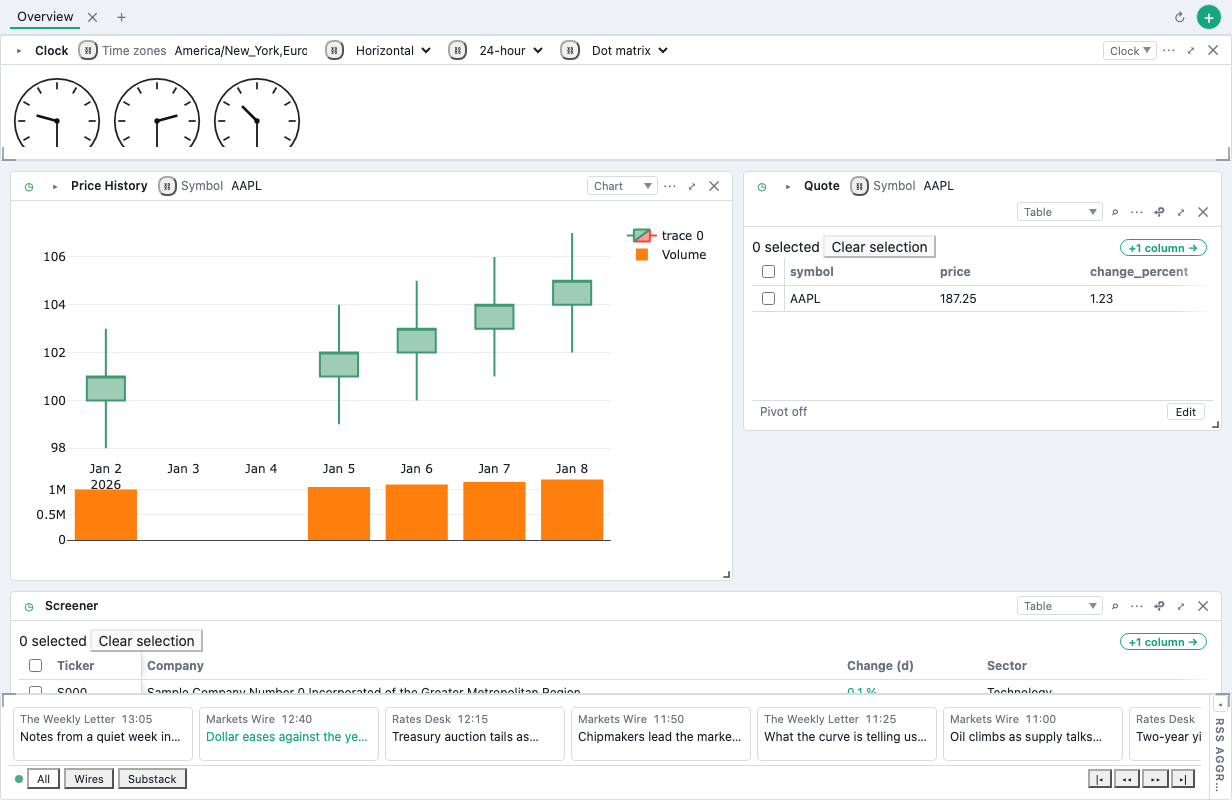
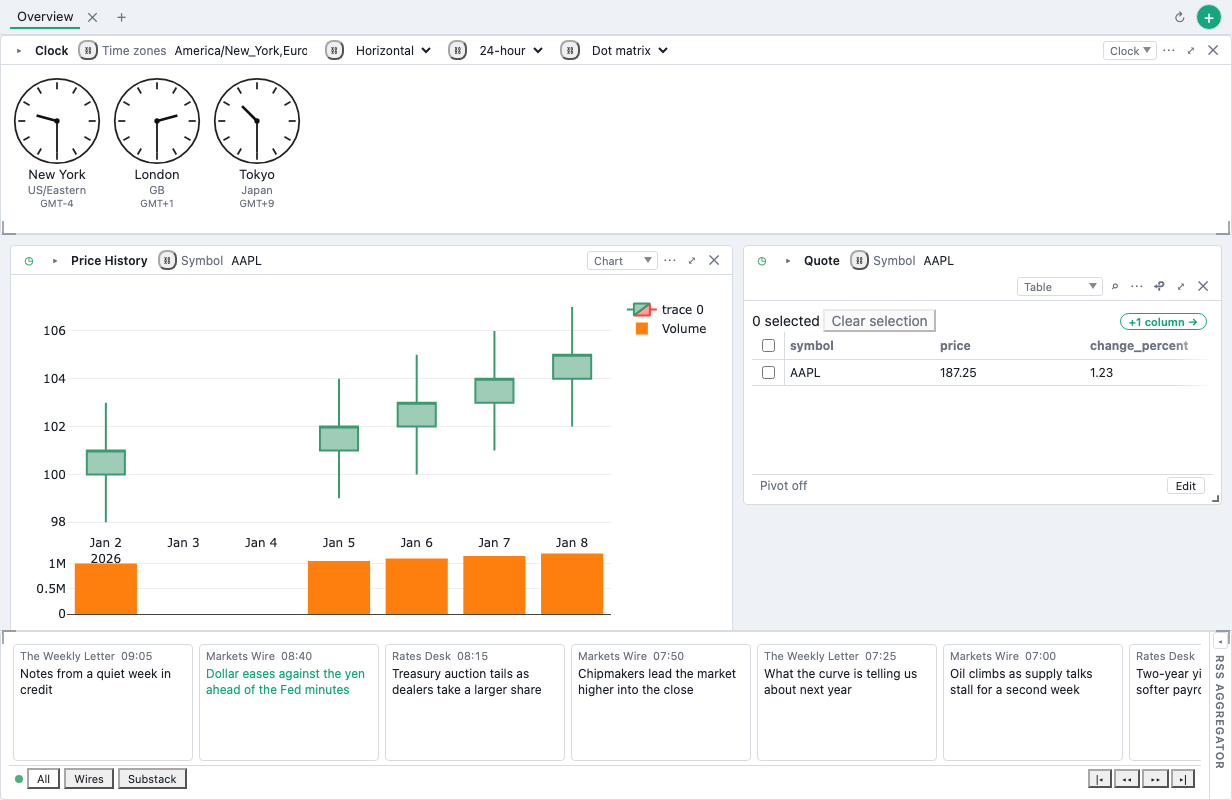
fix(v8): pinned bands keep their height on a tall tab
.dashboard-scroll was flex: 1 1 auto, so its basis was the whole grid's
height and flex shrank every item in proportion to its basis: a tall tab
squeezed the bands too (a 200px clock band to 125px, clipping its city
labels; the 170px news strip to 107px). A zero basis gives the region only
what the bands leave, with a 20% floor so an overfull edge still never hides
the grid (the 40%-cap test). Retake the band shots, the shots v7's disabled
labels changed here, and news/locked-widgets in the fixed New York zone.

(cherry picked from commit 87ae073680305797644d2ce997f881dc9808fad8)

diff --git a/e2e/pin.spec.ts b/e2e/pin.spec.ts
@@ -240,3 +240,18 @@ test("a pinned band takes at most 40% of the area, so the grid, the other band, 
   const stored = JSON.parse((await read(page, "dashboards/d1.json"))!);
   expect(stored.tabs[0].cards.find((c: { id: string }) => c.id === "markdown").layout.h).toBe(40);
 });
+
+test("a band under its cap keeps its full height while the tab below it scrolls", async ({ page }) => {
+  // The scroll region's content is far taller than the area; it must take
+  // only what the bands leave, not shrink them alongside itself.
+  await seedCards(page, [
+    ...tallTab(),
+    { id: "c-top", widgetId: "quote", backendId: "b1", params: { symbol: "AAPL" }, layout: { x: 20, y: 0, w: 20, h: 5 }, pinned: "top" },
+    { id: "c-bottom", widgetId: "quote", backendId: "b1", params: { symbol: "AAPL" }, layout: { x: 20, y: 5, w: 20, h: 4 }, pinned: "bottom" },
+  ]);
+  for (const edge of ["top", "bottom"]) {
+    const band = page.locator(`.card-dock-${edge}`);
+    const wanted = parseFloat(await band.evaluate((el) => el.style.height));
+    expect((await settledBox(band)).height).toBeCloseTo(wanted, 0);
+  }
+});

diff --git a/src/styles.css b/src/styles.css
@@ -569,10 +569,15 @@ body {
    above a bottom band, and the grid's 10px framing lives inside it. A finger
    pans it and pinches as before (touch-action stays auto); contain keeps a
    scroll that reaches the end from chaining to the page, which body's
-   overscroll-behavior already stops rubber-banding. */
+   overscroll-behavior already stops rubber-banding. A zero basis, not auto:
+   with auto the basis is the whole grid's height, and flex shrinks every item
+   in proportion to its basis -- so a tall tab squeezed the bands too, clipping
+   a pinned clock's labels and half the news strip. At zero the region takes
+   only what the bands leave, down to a fifth of the area: past that the
+   bands give way instead, so an overfull edge never hides the grid. */
 .dashboard-scroll {
-  flex: 1 1 auto;
-  min-height: 0;
+  flex: 1 1 0;
+  min-height: 20%;
   overflow: auto;
   overscroll-behavior: contain;
 }
